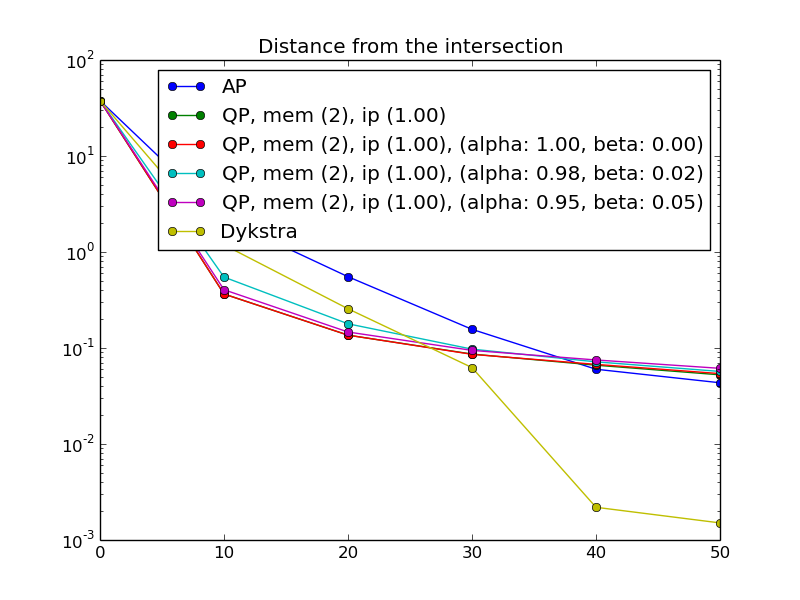
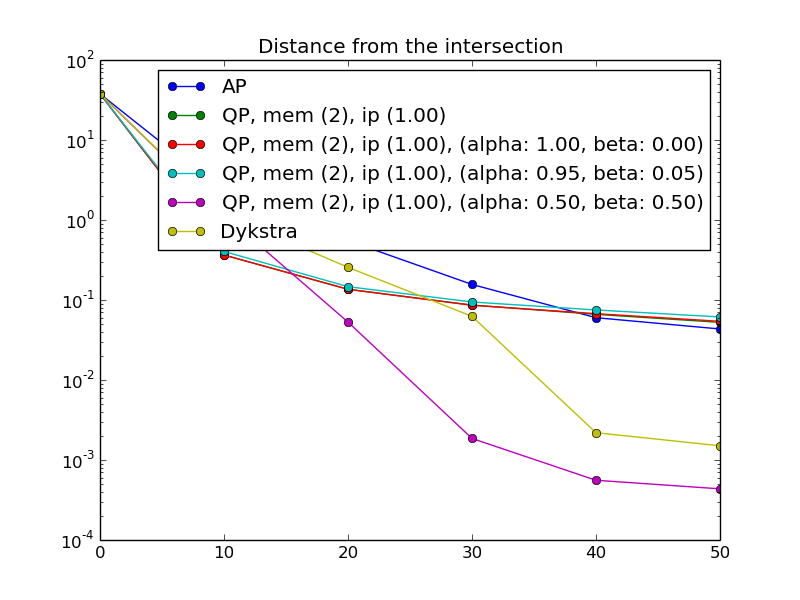
update momentum experiment

diff --git a/2017/02/07/averaged-projections-experiments/index.html b/2017/02/07/averaged-projections-experiments/index.html
@@ -263,8 +263,8 @@ projections. (It is easy to show that averaged projections is equivalent to
 alternating projections.) In order to accelerate convergence, before performing
 the next averaged projection iteration, we will project <script type="math/tex">s_k</script> onto the
 intersection of a number of halfspaces that contain
-<script type="math/tex">\mathcal{A} \cap \mathcal{K}</script>. More concretely,
-let <script type="math/tex">\tilde{A} = \{x \mid (z_k - q_k)^T(x - q_k) \leq 0\}</script> be the halfspace
+<script type="math/tex">\mathcal{A} \cap \mathcal{K}</script>. More concretely, let
+<script type="math/tex">\tilde{A} = \{x \mid (z_k - q_k)^T(x - q_k) \leq 0\}</script> be the halfspace
 containing <script type="math/tex">\mathcal{A}</script> and let
 <script type="math/tex">\tilde{K} = \{x \mid (z_k - r_k)^T(x - r_k) \leq 0\}</script> be the halfspace containing
 <script type="math/tex">\mathcal{K}</script>. After obtaining these halfspaces, we can generate the
@@ -307,8 +307,7 @@ experiments with a randomized version of the algorithm.)</p>
 <p>I also want to answer the question whether momentum updates may help prevent
 the QP algorithm that projections onto pairs of halfspaces from encountering
 the same problems that vanilla averaged projections encounters. I hypothesize
-that momentum will help, but my preliminary results below do not support my
-hypothesis.</p>
+that momentum will help, and my results support my hypothesis.</p>
 
 <p><img src="/optimization/assets/20170207-avg-proj-momentum-exp.png" style="max-height:100%; max-width:100%" /></p>
 

diff --git a/index.html b/index.html
@@ -268,8 +268,8 @@ projections. (It is easy to show that averaged projections is equivalent to
 alternating projections.) In order to accelerate convergence, before performing
 the next averaged projection iteration, we will project <script type="math/tex">s_k</script> onto the
 intersection of a number of halfspaces that contain
-<script type="math/tex">\mathcal{A} \cap \mathcal{K}</script>. More concretely,
-let <script type="math/tex">\tilde{A} = \{x \mid (z_k - q_k)^T(x - q_k) \leq 0\}</script> be the halfspace
+<script type="math/tex">\mathcal{A} \cap \mathcal{K}</script>. More concretely, let
+<script type="math/tex">\tilde{A} = \{x \mid (z_k - q_k)^T(x - q_k) \leq 0\}</script> be the halfspace
 containing <script type="math/tex">\mathcal{A}</script> and let
 <script type="math/tex">\tilde{K} = \{x \mid (z_k - r_k)^T(x - r_k) \leq 0\}</script> be the halfspace containing
 <script type="math/tex">\mathcal{K}</script>. After obtaining these halfspaces, we can generate the
@@ -312,8 +312,7 @@ experiments with a randomized version of the algorithm.)</p>
 <p>I also want to answer the question whether momentum updates may help prevent
 the QP algorithm that projections onto pairs of halfspaces from encountering
 the same problems that vanilla averaged projections encounters. I hypothesize
-that momentum will help, but my preliminary results below do not support my
-hypothesis.</p>
+that momentum will help, and my results support my hypothesis.</p>
 
 <p><img src="/optimization/assets/20170207-avg-proj-momentum-exp.png" style="max-height:100%; max-width:100%" /></p>
 
